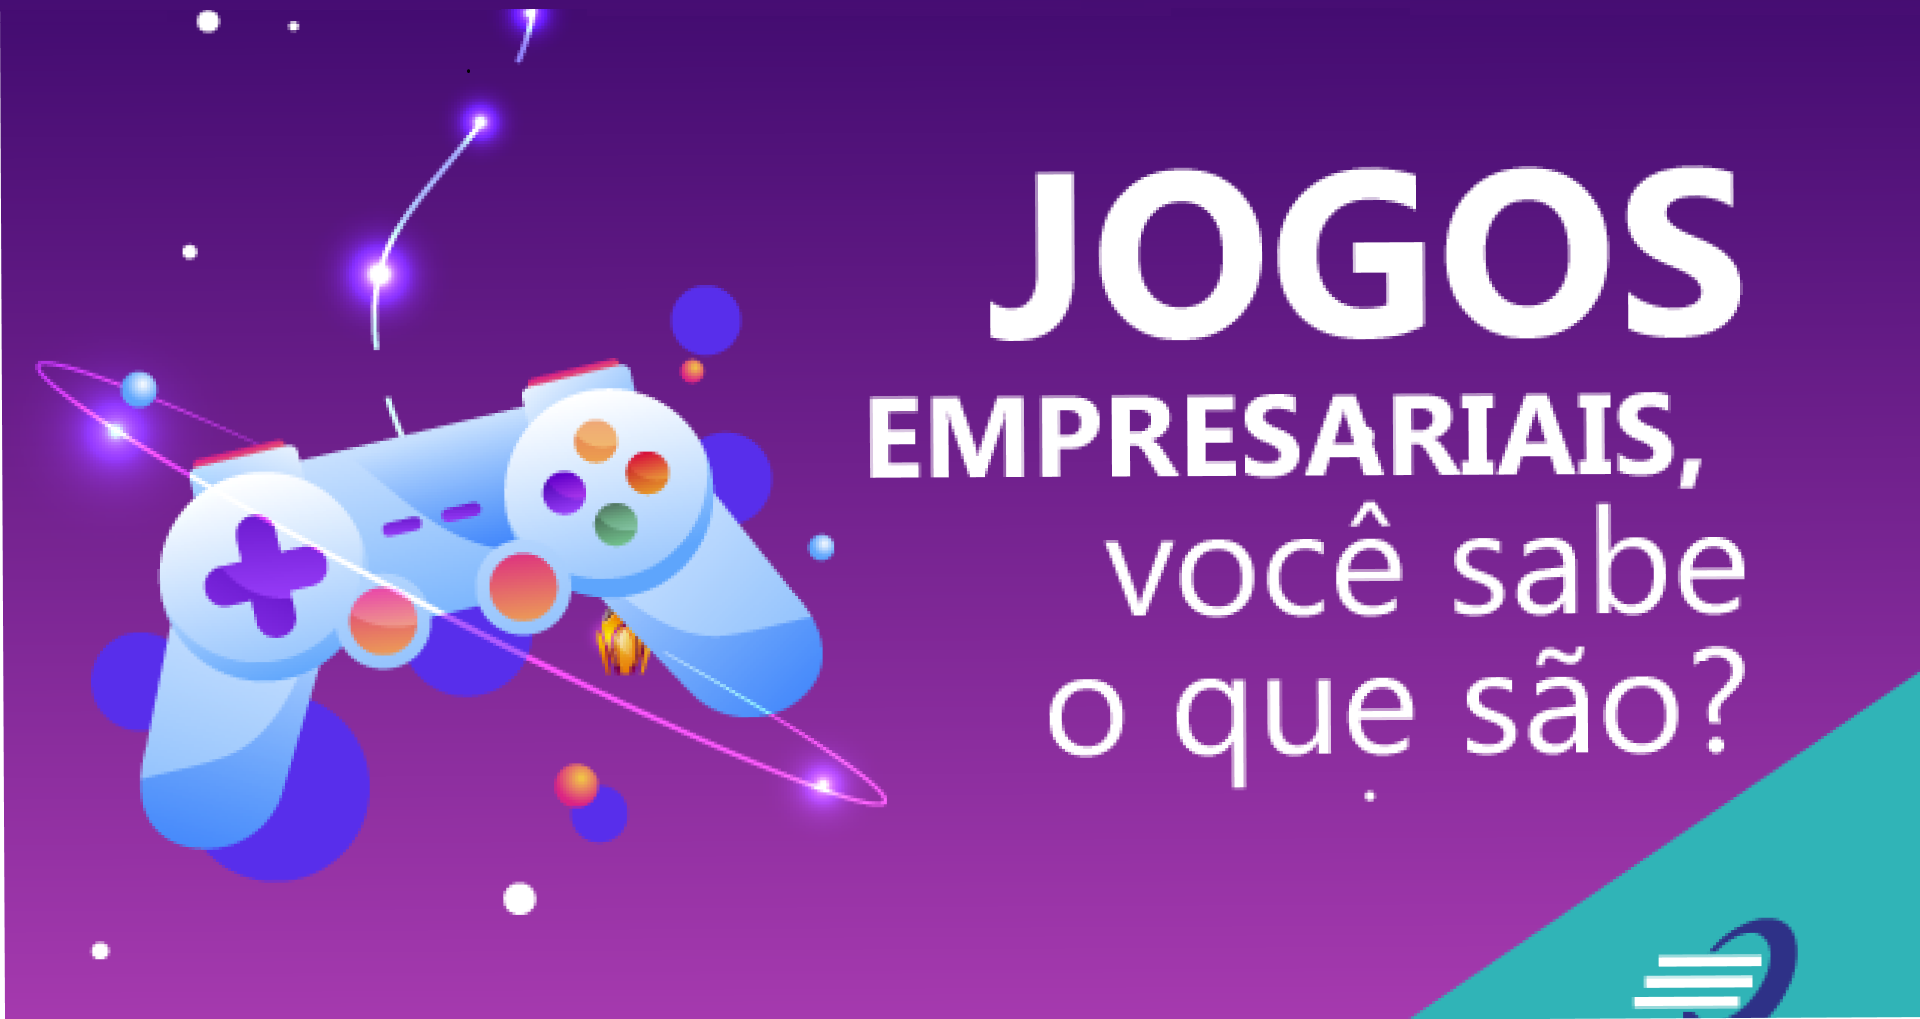
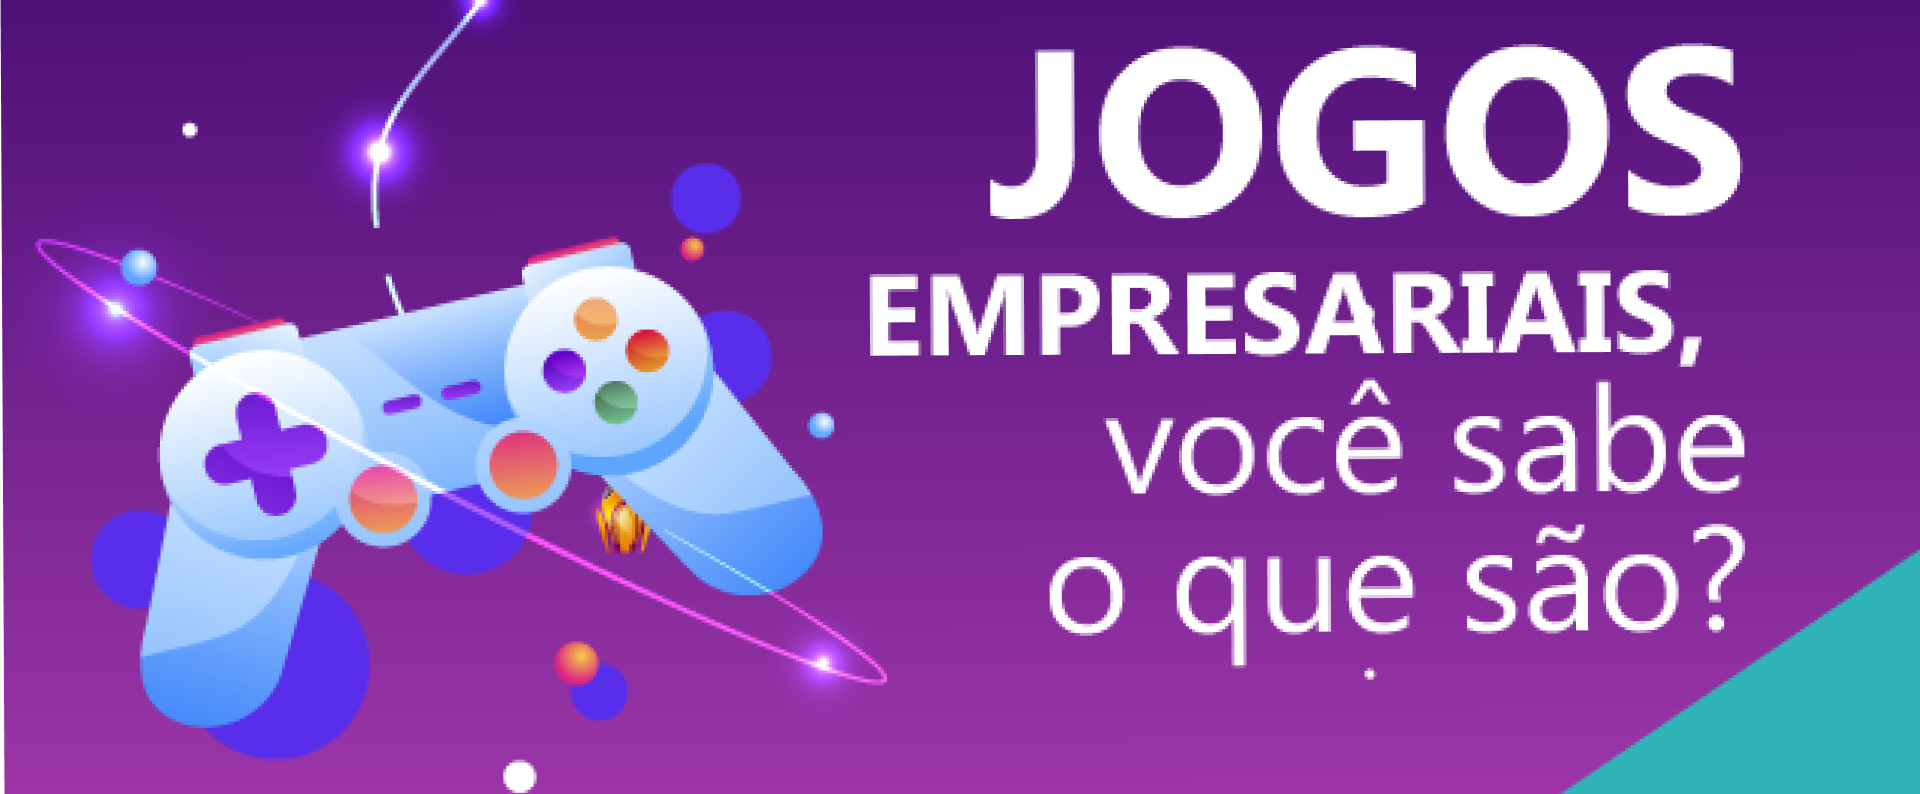
atividade2

diff --git a/Index.html b/Index.html
@@ -1,29 +1,85 @@
 <!DOCTYPE html>
+
 <html lang="pt-br">
 <head>
     <meta charset="UTF-8">
     <meta http-equiv="X-UA-Compatible" content="IE=edge">
     <meta name="viewport" content="width=device-width, initial-scale=1.0">
-    <title>Home - E-Players</title>
+    <title>Home - LJ-Jogos</title>
+    <link href="https://cdn.jsdelivr.net/npm/bootstrap@5.1.3/dist/css/bootstrap.min.css" rel="stylesheet" integrity="sha384-1BmE4kWBq78iYhFldvKuhfTAU6auU8tT94WrHftjDbrCEXSU1oBoqyl2QvZ6jIW3" crossorigin="anonymous">
     <link rel="stylesheet" href="css/style.css"
 </head>
 <body>
     <header>
-        <div class = "container-grid">
-            <a href=""><img src="img/logo.png" alt="Logo do Site"></a>
-                <nav class="menu">
+        <div class = "container-grid posicionamento-header">
+            <a href=""><img class="logo" src="img/logo.png" alt="Logo do Site"></a>
+                <nav id="menu" class="menu">
                     <a href="">Início</a>
                     <a href="">Empresas</a>
                     <a href="">Clientes</a>
                     <a href="">Jogos</a>
                     <a href="">Contatos</a>
                 </nav>
+                <a href=""onclick="mostrarMenu()"><img class="barras" src="img/menu.png" alt="Menu de barras"></a>
         </div>
     </header>
     <div class="banner">
-        <div class="container-grid posicao-texto">
+        <div class="container-grid">
         <div class="texto-banner">
+        </div>    
     </div>
+    <div class="game">
+        <div class="container-grid posicao-texto">
+        <div class="texto-game">
+            <h1>Games</h1>
+            <p>Diversão e engajamento em games e simulares gitais</p>
+            <!-- <p>games e simuladores gitais</p> -->
+            <a href="">Saiba Mais</a>
+        </div>
+    </div>
+
+    <!-- <p>Professora Jessica não tenho esta seção jogos no Figma, mas inseri para acompanhar aula</p> -->
+
+    <section class="secao-jogos">
+        <div class="jogos container">
+            <a href=""><img src="img/J1.png"></a>
+            <a href=""><img src="img/J2.png"></a>
+            <!-- <a href=""><img src="img/J3.png"></a> -->
+            <a href=""><img src="img/J4.png"></a>
+        </div>
+    </section>
+
+    <!-- <p>Professora Jessica inseri esta seção que duplicação do meu Banner para acompanhar aula</p> -->
+
+    <section class="secao-banner2">
+        <div class="conteudo-banner2 container">
+            <div class="row">
+            <div class="container-imagem col-md-6">
+                <img src="img/join.png" alt="imagem do joistick">
+            </div>
+            <div class="texto-banner2 col-md-6">
+                <h2>JOGOS</h2>
+                <p>EMPRESARIAIS, Você sabe o que são?</p>
+            </div>
+            <!-- <div class="container-imagem col-md-6">
+                <img src="img/join.png" alt="imagem do joistick"
+            </div> -->
+        </div>  
+        </div> 
+    </div>
+    </section>
+    <script>
+        let menu = document.getElementById("menu");
+
+        function mostrarMenu(){
+            if(menu.style.display != "flex"){
+                menu.style.display = "flex"
+            }else{
+                menu.style.display = "none"
+            }
+        }
+    </script>
+    <script src="https://cdn.jsdelivr.net/npm/bootstrap@5.1.3/dist/js/bootstrap.bundle.min.js" integrity="sha384-ka7Sk0Gln4gmtz2MlQnikT1wXgYsOg+OMhuP+IlRH9sENBO0LRn5q+8nbTov4+1p" crossorigin="anonymous"></script>
 </body>
 </html>
 

diff --git a/css/style.css b/css/style.css
@@ -1,8 +1,8 @@
-@import url('https://fonts.googleapis.com/css2?family=Roboto&display=swap');
+@import url('https://fonts.googleapis.com/css2?family=Roboto&family=Titillium+web&display=swap');
 *{
     margin: 0;
     padding: 0;
-    box-sizing: border-box;
+    box-sizing: border-box; 
 }
 header{
     background-color: #212D40;
@@ -13,24 +13,136 @@ header{
     height: 100%;
     margin: auto;
     display: flex;
-    justify-content: space-between;
+    justify-content: space-between; 
     align-items: center;
-}
-.menu a{
-    color: white;
-    text-decoration: none;
-    text-transform: uppercase;
-    font-family: 'Roboto',sans-serif;
-    font-size: 20px;
 }
 .menu{
     width: 660px;
     display: flex;
     justify-content: space-between;
 }
-.banner{
-    height: 600px;
-    background-image: url(../img/banner.png);
-    background-repeat: no-repeat;
-    background-size: 1400px 550px;    
+.menu a{
+    color: white;
+    text-decoration: none;
+    text-transform: uppercase;
+    font-family: 'Roboto',sans-serif;
+    font-size: 20px; 
 }
+.banner{
+    background-image: url(../img/banner.png);
+    height: 400px;
+    background-repeat: no-repeat;
+    /* background-repeat: no-repeat; */
+    background-size: 945px 400px;   
+    /* background-size: cover; */
+    /* background-size: 900px 400px;   */
+    /* background-repeat: none; */
+}
+.game{
+    height: 400px;
+    background-image: url(../img/game.png);
+    background-repeat: no-repeat;
+    background-size: 1400px 400px;
+    background-size: cover;
+}
+.texto-game{
+    color: white;
+}
+.posicao-texto{
+    justify-content: flex-end;
+}
+.texto-game h1{
+    font-family: 'Titillium Web', sans-serif;
+    font-size: 80px;
+    font-weight: bold;
+}
+.texto-game{
+    width: 495px;
+    color: white;
+    text-align:center;
+    font-family: 'Roboto',sans-serif;
+    font-size: 25px;
+}
+.texto-game a{
+     /* margin-top: 10px; */
+    background-color: rgb(103, 72, 160);
+    color: white;
+    text-decoration: none;
+    text-transform: uppercase;
+    padding: 15px;
+    border-radius: 5px;
+}
+.texto-game p{
+    margin-bottom: 50px;
+}
+.secao-jogos{
+    background-color: #212D40;
+}
+.jogos{
+    display: flex;
+    justify-content: space-between;
+    align-items: center;
+}
+.jogos img{
+    width: 150px;
+}
+.secao-banner2{
+    background-image: url(../img/fundo.png);
+    background-repeat: no-repeat;
+    background-size: cover;
+    background-position: center;
+    /* height: 350px;
+    background-size: 945px 350px;    */
+}
+.texto-banner2 h2{
+    font-family: 'Titillium Web', sans-serif;
+    font-size: 40px;
+    font-weight: bold;
+}
+.texto-banner2{
+    color:white;
+    display: flex;
+    flex-direction: column;
+    justify-content: center;
+    font-size: 40px;
+    font-weight: bold;
+}
+.barras{
+    width: 50px;
+    display: none; 
+}
+.posiccionamento-header{
+    position:relative;
+}
+@media screen and (max-width: 1200px){
+    .container-grid{
+        width: 90%;   
+    }
+    .menu a{
+        font-size: 16px;
+    } 
+    .logo{
+        width: 180px;
+    }
+}
+@media screen and (max-width: 768px){
+    h1{
+        color: blue;
+    }
+    .barras{
+        display: inline-block;
+    }
+    .menu{
+        display: none;
+        flex-direction: column;
+        width: 250px;
+        height: 250px;
+        position: absolute;
+        top: 0;
+        right: 60px;
+    }
+    .banner{  
+        background-size: 768px 400px;   
+    }
+}
+
